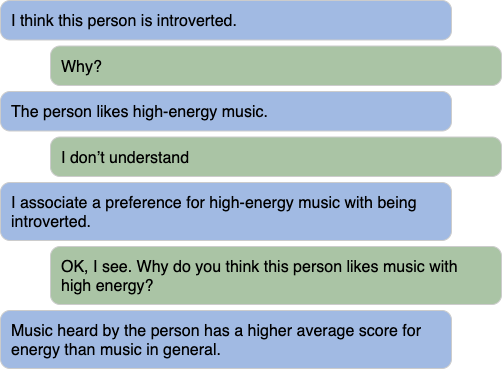
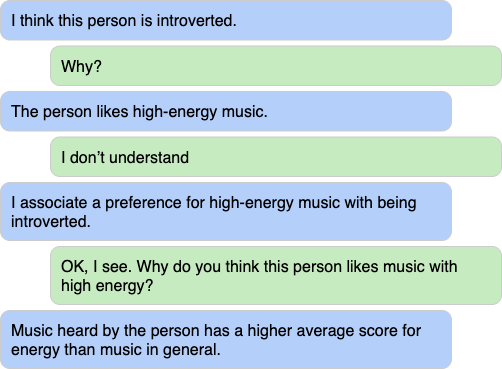
readme: Generate dialogue figures

diff --git a/doc/generate.js b/doc/generate.js
@@ -4,20 +4,16 @@ const path = require('path');
 const { exec } = require('child_process');
 
 (async () => {
-  // Initialize Puppeteer browser
   const browser = await puppeteer.launch();
   const page = await browser.newPage();
 
-  // Get all text files from the "dialogs" folder
   const dialogDir = path.join(__dirname, 'dialogs');
   const files = fs.readdirSync(dialogDir).filter(file => file.endsWith('.txt'));
 
-  // Loop through each dialog file
   for (let file of files) {
     const filePath = path.join(dialogDir, file);
-    const dialogContent = fs.readFileSync(filePath, 'utf-8').split('\n').filter(Boolean);
+    const dialogContent = fs.readFileSync(filePath, 'utf-8').split('\n');
 
-    // Generate the HTML content for the dialog
     let htmlContent = `
       <html>
       <head>
@@ -26,36 +22,38 @@ const { exec } = require('child_process');
       <body>
       <div class="container">`;
 
-    // Create the HTML for each dialog (S and U)
     for (let line of dialogContent) {
-      const [speaker, message] = line.split(':').map(str => str.trim());
-      if (speaker === 'S') {
-        htmlContent += `
-          <div class="utterance_container_S">
-            <div class="utterance_bubble background_S">
-              <div class="utterance">${message}</div>
-            </div>
-          </div>`;
-      } else if (speaker === 'U') {
-        htmlContent += `
-          <div class="utterance_container_U">
-            <div class="utterance_bubble background_U">
-              <div class="utterance">${message}</div>
-            </div>
-          </div>`;
+      const parts = line.split(':');
+      if (parts.length < 2) {
+        htmlContent += '<div class="spacing"></div>';
+      }
+      else {
+        const [speaker, message] = parts.map(str => str.trim());
+        if (speaker === 'S') {
+          htmlContent += `
+            <div class="utterance_container_S">
+              <div class="utterance_bubble background_S">
+                <div class="utterance">${message}</div>
+              </div>
+            </div>`;
+        } else if (speaker === 'U') {
+          htmlContent += `
+            <div class="utterance_container_U">
+              <div class="utterance_bubble background_U">
+                <div class="utterance">${message}</div>
+              </div>
+            </div>`;
+        }
       }
     }
 
     htmlContent += `</div></body></html>`;
 
-    // Create an HTML file with the generated content
     const outputHtmlPath = path.join(__dirname, 'temp.html');
     fs.writeFileSync(outputHtmlPath, htmlContent);
 
-    // Load the local HTML file
     await page.goto('file://' + outputHtmlPath);
 
-    // Save the screenshot with the filename based on the text file name
     const screenshotPath = path.join(__dirname, path.join('dialogs', `${path.basename(file, '.txt')}.png`));
     await page.screenshot({
       path: screenshotPath,
@@ -79,6 +77,5 @@ const { exec } = require('child_process');
     fs.unlinkSync(outputHtmlPath);
   }
 
-  // Close Puppeteer browser
   await browser.close();
 })();

diff --git a/doc/styles.css b/doc/styles.css
@@ -24,13 +24,17 @@ html *
 }
 
 .background_S {
-    background-color: #a1bae3;
+    background-color: #b4cffa;
 }
 
 .background_U {
-    background-color: #aac4a5;
+    background-color: #c7ebc0;
 }
 
 .utterance {
     padding: 10px;
+}
+
+.spacing {
+  padding-bottom: 20px;
 }

diff --git a/README.md b/README.md
@@ -11,79 +11,32 @@ BKOS supports the following dialogue capabilities, all of which, as far as I kno
 ## ✅ Nested explanations
 BKOS is capable of explaining its own explanation, when requested by the user.
 
-```
-S: I think this person is introverted.
-U: Why?
-S: The person likes high-energy music.
-U: Why do you think so?
-S: Music heard by the person has a higher average score for energy than
-   music in general.
-```
+![Nested explanations](doc/dialogs/nested_explanations.png)
 
 ## ✅ Negative understanding feedback
 Negative understanding feedback from the user (e.g. "I don't understand", "so what?") causes BKOS to context-dependently elaborate its reasoning.
 
-```
-S: I think this person is introverted.
-U: I don't understand
-S: The person likes non-danceable music.
-U: so what?
-S: I associate a preference for non-danceable music with being introverted.
-```
+![Negative understanding feedback](doc/dialogs/negative_understanding.png)
 
 ## ✅ Presupposition violations
 If the user's utterance presupposes a false claim, BKOS denies the presupposed content.
 
-```
-U: why do think the person is extraverted?
-S: No, I don't think this person is extraverted.
-```
-
-```
-U: how does liking non-danceable music explain being extraverted?
-S: No, I don't associate a preference for non-danceable music.
-```
-
-```
-U: why do you think this person likes non-danceable music?
-S: No, I don't think this person likes non-danceable music.
-```
+![Presupposition violations](doc/dialogs/presupposition_violations.png)
 
 ## ✅ Yes-no questions
 BKOS is capable of answering yes-no questions from the user.
 
-```
-U: does the fact that the person likes non-danceable music support the
-   assessment that the person is introverted?
-S: Yes, I associate a preference for non-danceable music with being
-   introverted.
-```
+![Yes-no questions](doc/dialogs/yes_no_questions.png)
 
 ## ✅ Additional information
 BKOS can deliver answers in chunks, and gives feedback if the user continues requesting additional information when no more chunks are available.
 
-```
-S: I think this person is introverted.
-U: why?
-S: The person likes non-danceable music.
-U: any other reasons?
-S: The person likes high-energy music.
-U: other reasons?
-S: The person likes sad/depressed/angry music.
-U: other reasons?
-S: I don't see any other reasons to believe that the person is introverted.
-```
+![Additional information](doc/dialogs/additional_information.png)
 
 ## ✅ Acknowledgement
 BKOS silently accommodates acknowledgements from the user.
 
-```
-S: I think this person is introverted.
-U: ok
-S: (utters nothing)
-U: why?
-S: The person likes high-energy music.    
-```
+![Acknowledgement](doc/dialogs/acknowledgement.png)
 
 # Publications
 Comparison of dialogue capabilities of BKOS and two other conversationally explainable AI interfaces (TalkToModel and Glass-Box):
